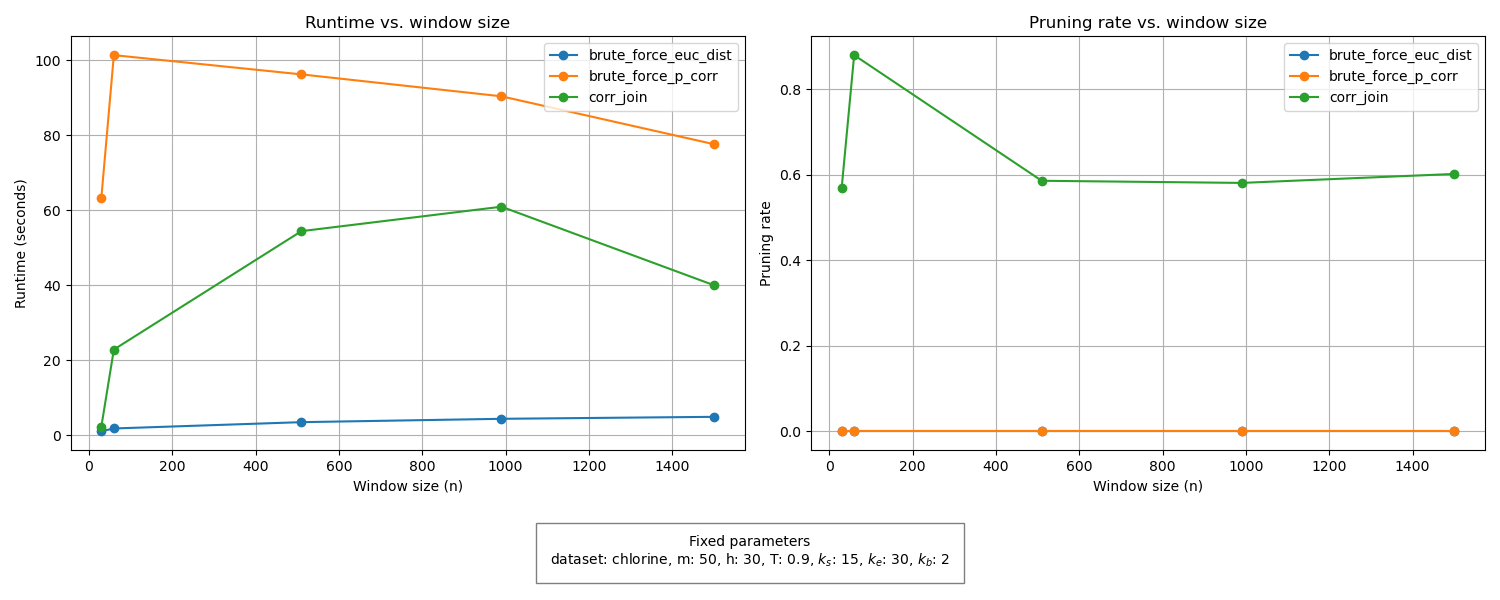
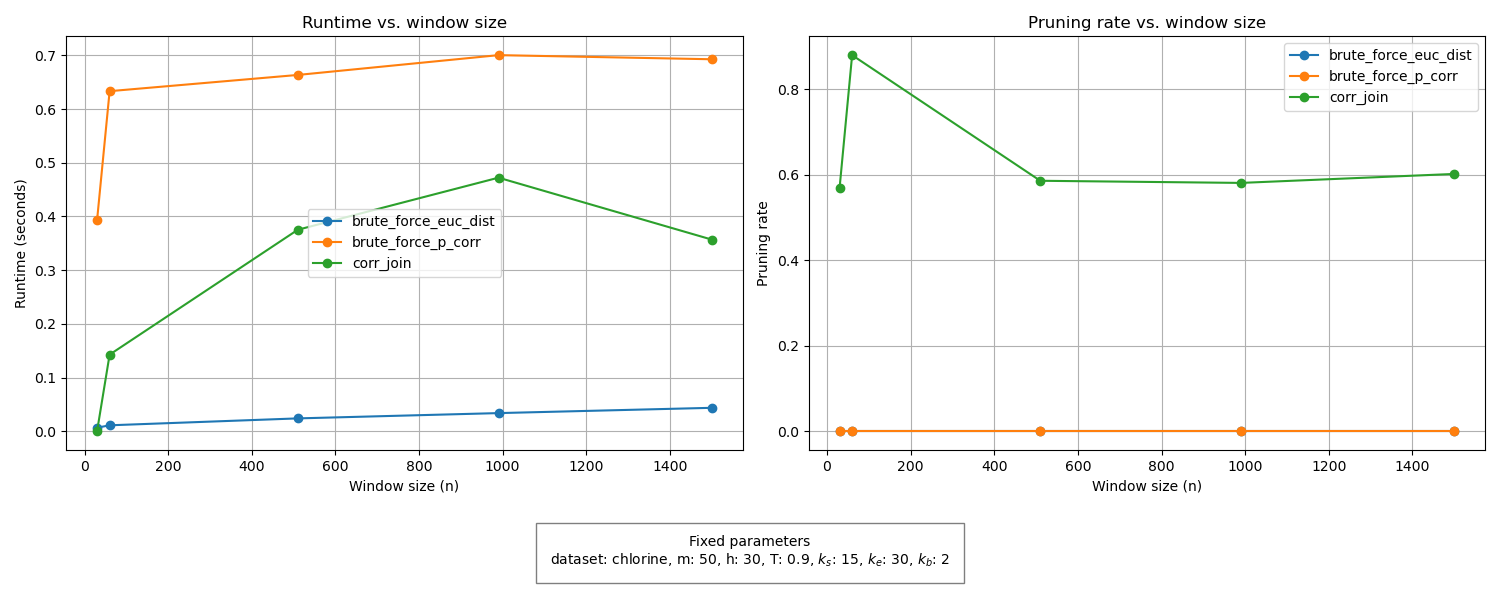
feat: plot avg runtime per window instead of total runtime

diff --git a/src/corr_join/plot.py b/src/corr_join/plot.py
@@ -7,8 +7,21 @@ import pandas as pd
 import util
 
 
-# Consult src/corr_join/util.py for the structure of the
-# logs
+# Consult src/corr_join/util.py for the structure of the logs
+
+
+def compute_avg_runtime(df):
+  # Calculate the runtime for one window
+  df['avg_runtime_per_window'] = df[
+    [
+      'window shift time [ns]', 
+      'SVD time [ns]', 
+      'bucketing filter time [ns]', 
+      'Euclidean distance filter time [ns]', 
+      'Pearson correlation computation time [ns]'
+    ]
+  ].sum(axis=1).div(1e9)  # Sum along columns for each row
+  return df
 
 
 def t_runtime_pr(df, ds_name: str, m: int, params):
@@ -25,6 +38,7 @@ def t_runtime_pr(df, ds_name: str, m: int, params):
   T is usually at the place of _, but not needed in this function.
   """
   n, h, _, k_s, k_e, k_b = params
+  df = compute_avg_runtime(df)
   # Filter the DataFrame for the desired parameters
   filtered_df = df[(df['dataset'] == ds_name)
     & (df['m'] == m)
@@ -48,7 +62,7 @@ def t_runtime_pr(df, ds_name: str, m: int, params):
   # Plot 1: Runtime vs. correlation threshold
   for i, algo in enumerate(algorithms):
     algo_df = result_df[result_df['algorithm'] == algo]
-    ax1.plot(algo_df['T'], algo_df['runtime [s]'], marker='o', label=algo, color=color_map[i])
+    ax1.plot(algo_df['T'], algo_df['avg_runtime_per_window'], marker='o', label=algo, color=color_map[i])
 
   ax1.set_xlabel('Correlation threshold (T)')
   ax1.set_ylabel('Runtime (seconds)')
@@ -103,6 +117,7 @@ def n_runtime_pr(df, ds_name: str, m: int, params):
   n is usually at the place of _, but not needed in this function.
   """
   _, h, T, k_s, k_e, k_b = params
+  df = compute_avg_runtime(df)
   # Filter the DataFrame for the desired parameters
   filtered_df = df[(df['dataset'] == ds_name)
     & (df['m'] == m)
@@ -125,7 +140,7 @@ def n_runtime_pr(df, ds_name: str, m: int, params):
   # Plot 1: Runtime vs. window size
   for i, algo in enumerate(algorithms):
     algo_df = result_df[result_df['algorithm'] == algo]
-    ax1.plot(algo_df['n'], algo_df['runtime [s]'], marker='o', label=algo, color=color_map[i])
+    ax1.plot(algo_df['n'], algo_df['avg_runtime_per_window'], marker='o', label=algo, color=color_map[i])
 
   ax1.set_xlabel('Window size (n)')
   ax1.set_ylabel('Runtime (seconds)')
@@ -179,6 +194,7 @@ def h_runtime(df, ds_name: str, m: int, params):
   h is usually at the place of _, but not needed in this function.
   """
   n, _, T, k_s, k_e, k_b = params
+  df = compute_avg_runtime(df)
   # Filter the DataFrame for the desired parameters
   filtered_df = df[(df['dataset'] == ds_name)
     & (df['m'] == m)
@@ -201,7 +217,7 @@ def h_runtime(df, ds_name: str, m: int, params):
   # Plot: Runtime vs. variable
   for i, algo in enumerate(algorithms):
     algo_df = result_df[result_df['algorithm'] == algo]
-    ax.plot(algo_df['h'], algo_df['runtime [s]'], marker='o', label=algo, color=color_map[i])
+    ax.plot(algo_df['h'], algo_df['avg_runtime_per_window'], marker='o', label=algo, color=color_map[i])
 
   ax.set_xlabel('Stride (h)')
   ax.set_ylabel('Runtime (seconds)')
@@ -243,6 +259,7 @@ def m_runtime(df, ds_name: str, params):
   h is usually at the place of _, but not needed in this function.
   """
   n, h, T, k_s, k_e, k_b = params
+  df = compute_avg_runtime(df)
   m = util.get_params("synthetic_var_m_0_test")
   # Filter the DataFrame for the desired parameters
   filtered_df = df[(df['dataset'] == ds_name)
@@ -266,7 +283,7 @@ def m_runtime(df, ds_name: str, params):
   # Plot: Runtime vs. the variable
   for i, algo in enumerate(algorithms):
     algo_df = result_df[result_df['algorithm'] == algo]
-    ax.plot(algo_df['m'], algo_df['runtime [s]'], marker='o', label=algo, color=color_map[i])
+    ax.plot(algo_df['m'], algo_df['avg_runtime_per_window'], marker='o', label=algo, color=color_map[i])
 
   ax.set_xlabel('Number of time series (m)')
   ax.set_ylabel('Runtime (seconds)')

diff --git a/src/corr_join/corr_join.py b/src/corr_join/corr_join.py
@@ -85,12 +85,11 @@ def corr_join(t_series, n: int, h: int, T: float, k_s: int, k_e: int, k_b: int):
       if corrcoef >= T:
       # if abs(corrcoef) >= T:
         num_corr_pairs += 1
-        main_logger.info(f"Report ({pair[0]}, {pair[1]}, {alpha}): Window {alpha} of time series {pair[0]} and {pair[1]} are correlated with correlation coefficient {corrcoef}.")
+        # main_logger.info(f"Report ({pair[0]}, {pair[1]}, {alpha}): Window {alpha} of time series {pair[0]} and {pair[1]} are correlated with correlation coefficient {corrcoef}.")
     
     p_times[alpha, 5] = perf_counter_ns()   # Time after computing the Pearson correlation
     alpha += 1
 
-  p_means = np.mean(p_times, axis=1)  # Calculate across columns
   # Calculate mean differences between consecutive columns
   section_times = np.round([
     np.mean(p_times[:, 1] - p_times[:, 0]),
